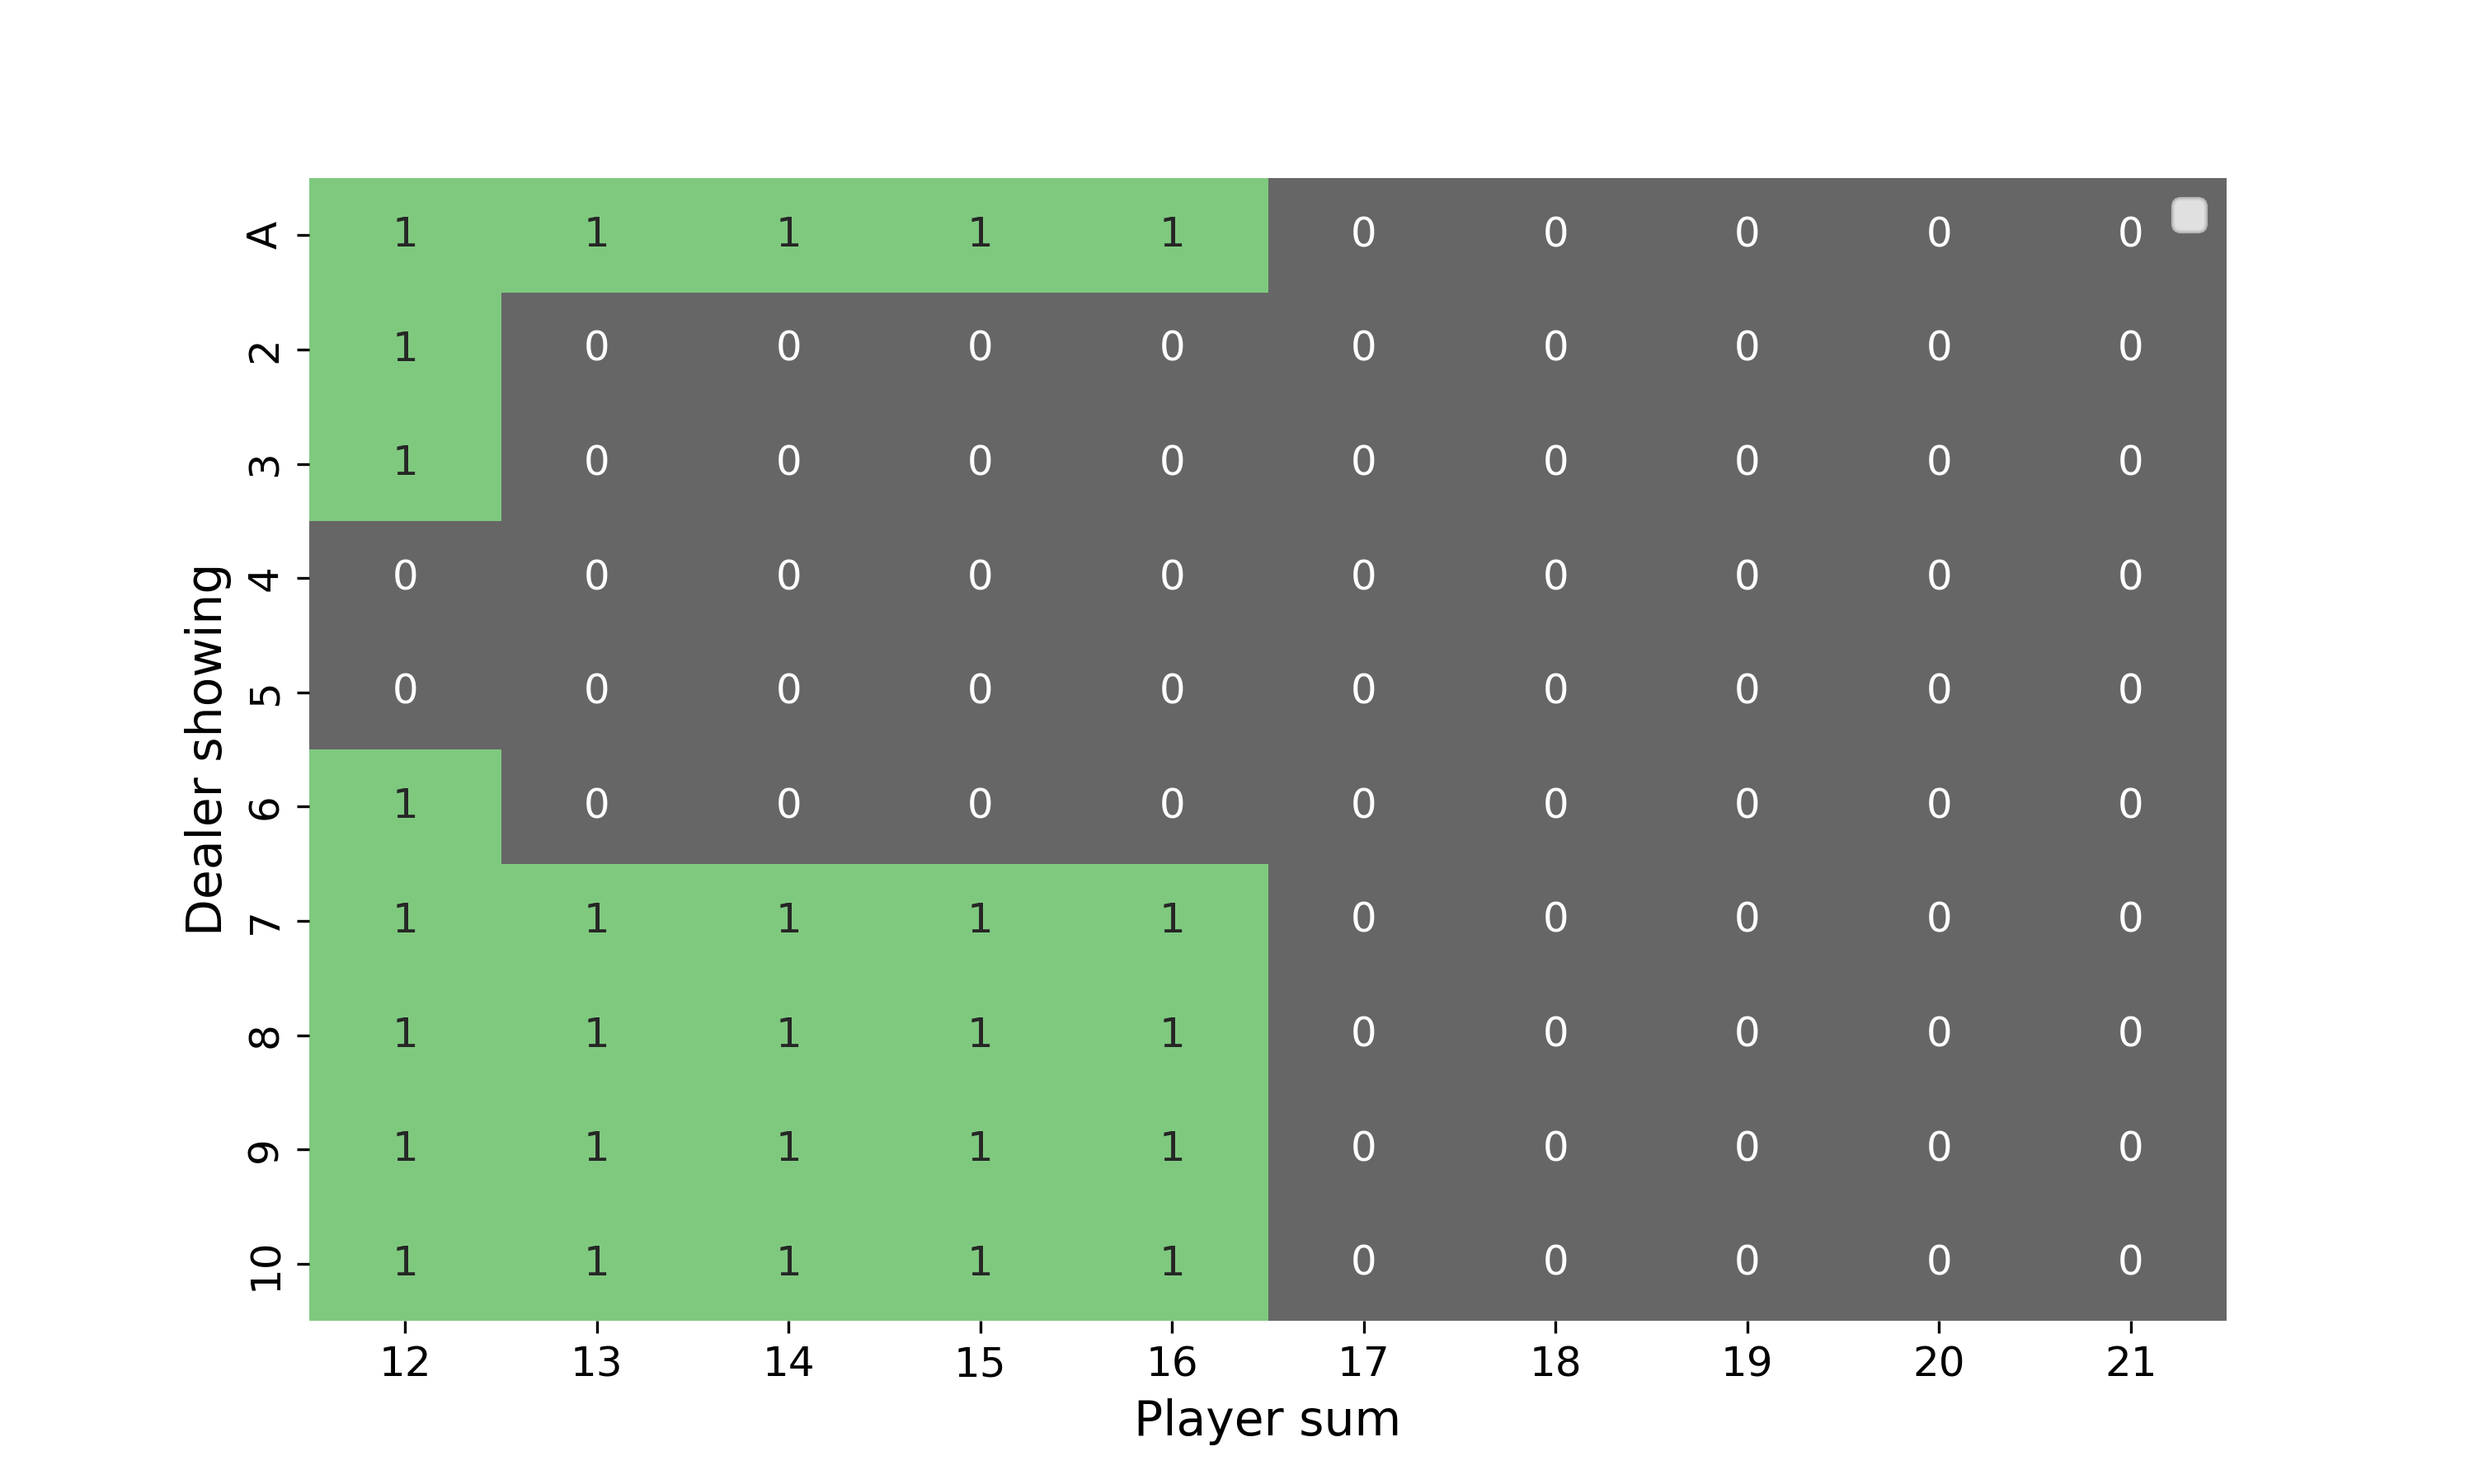
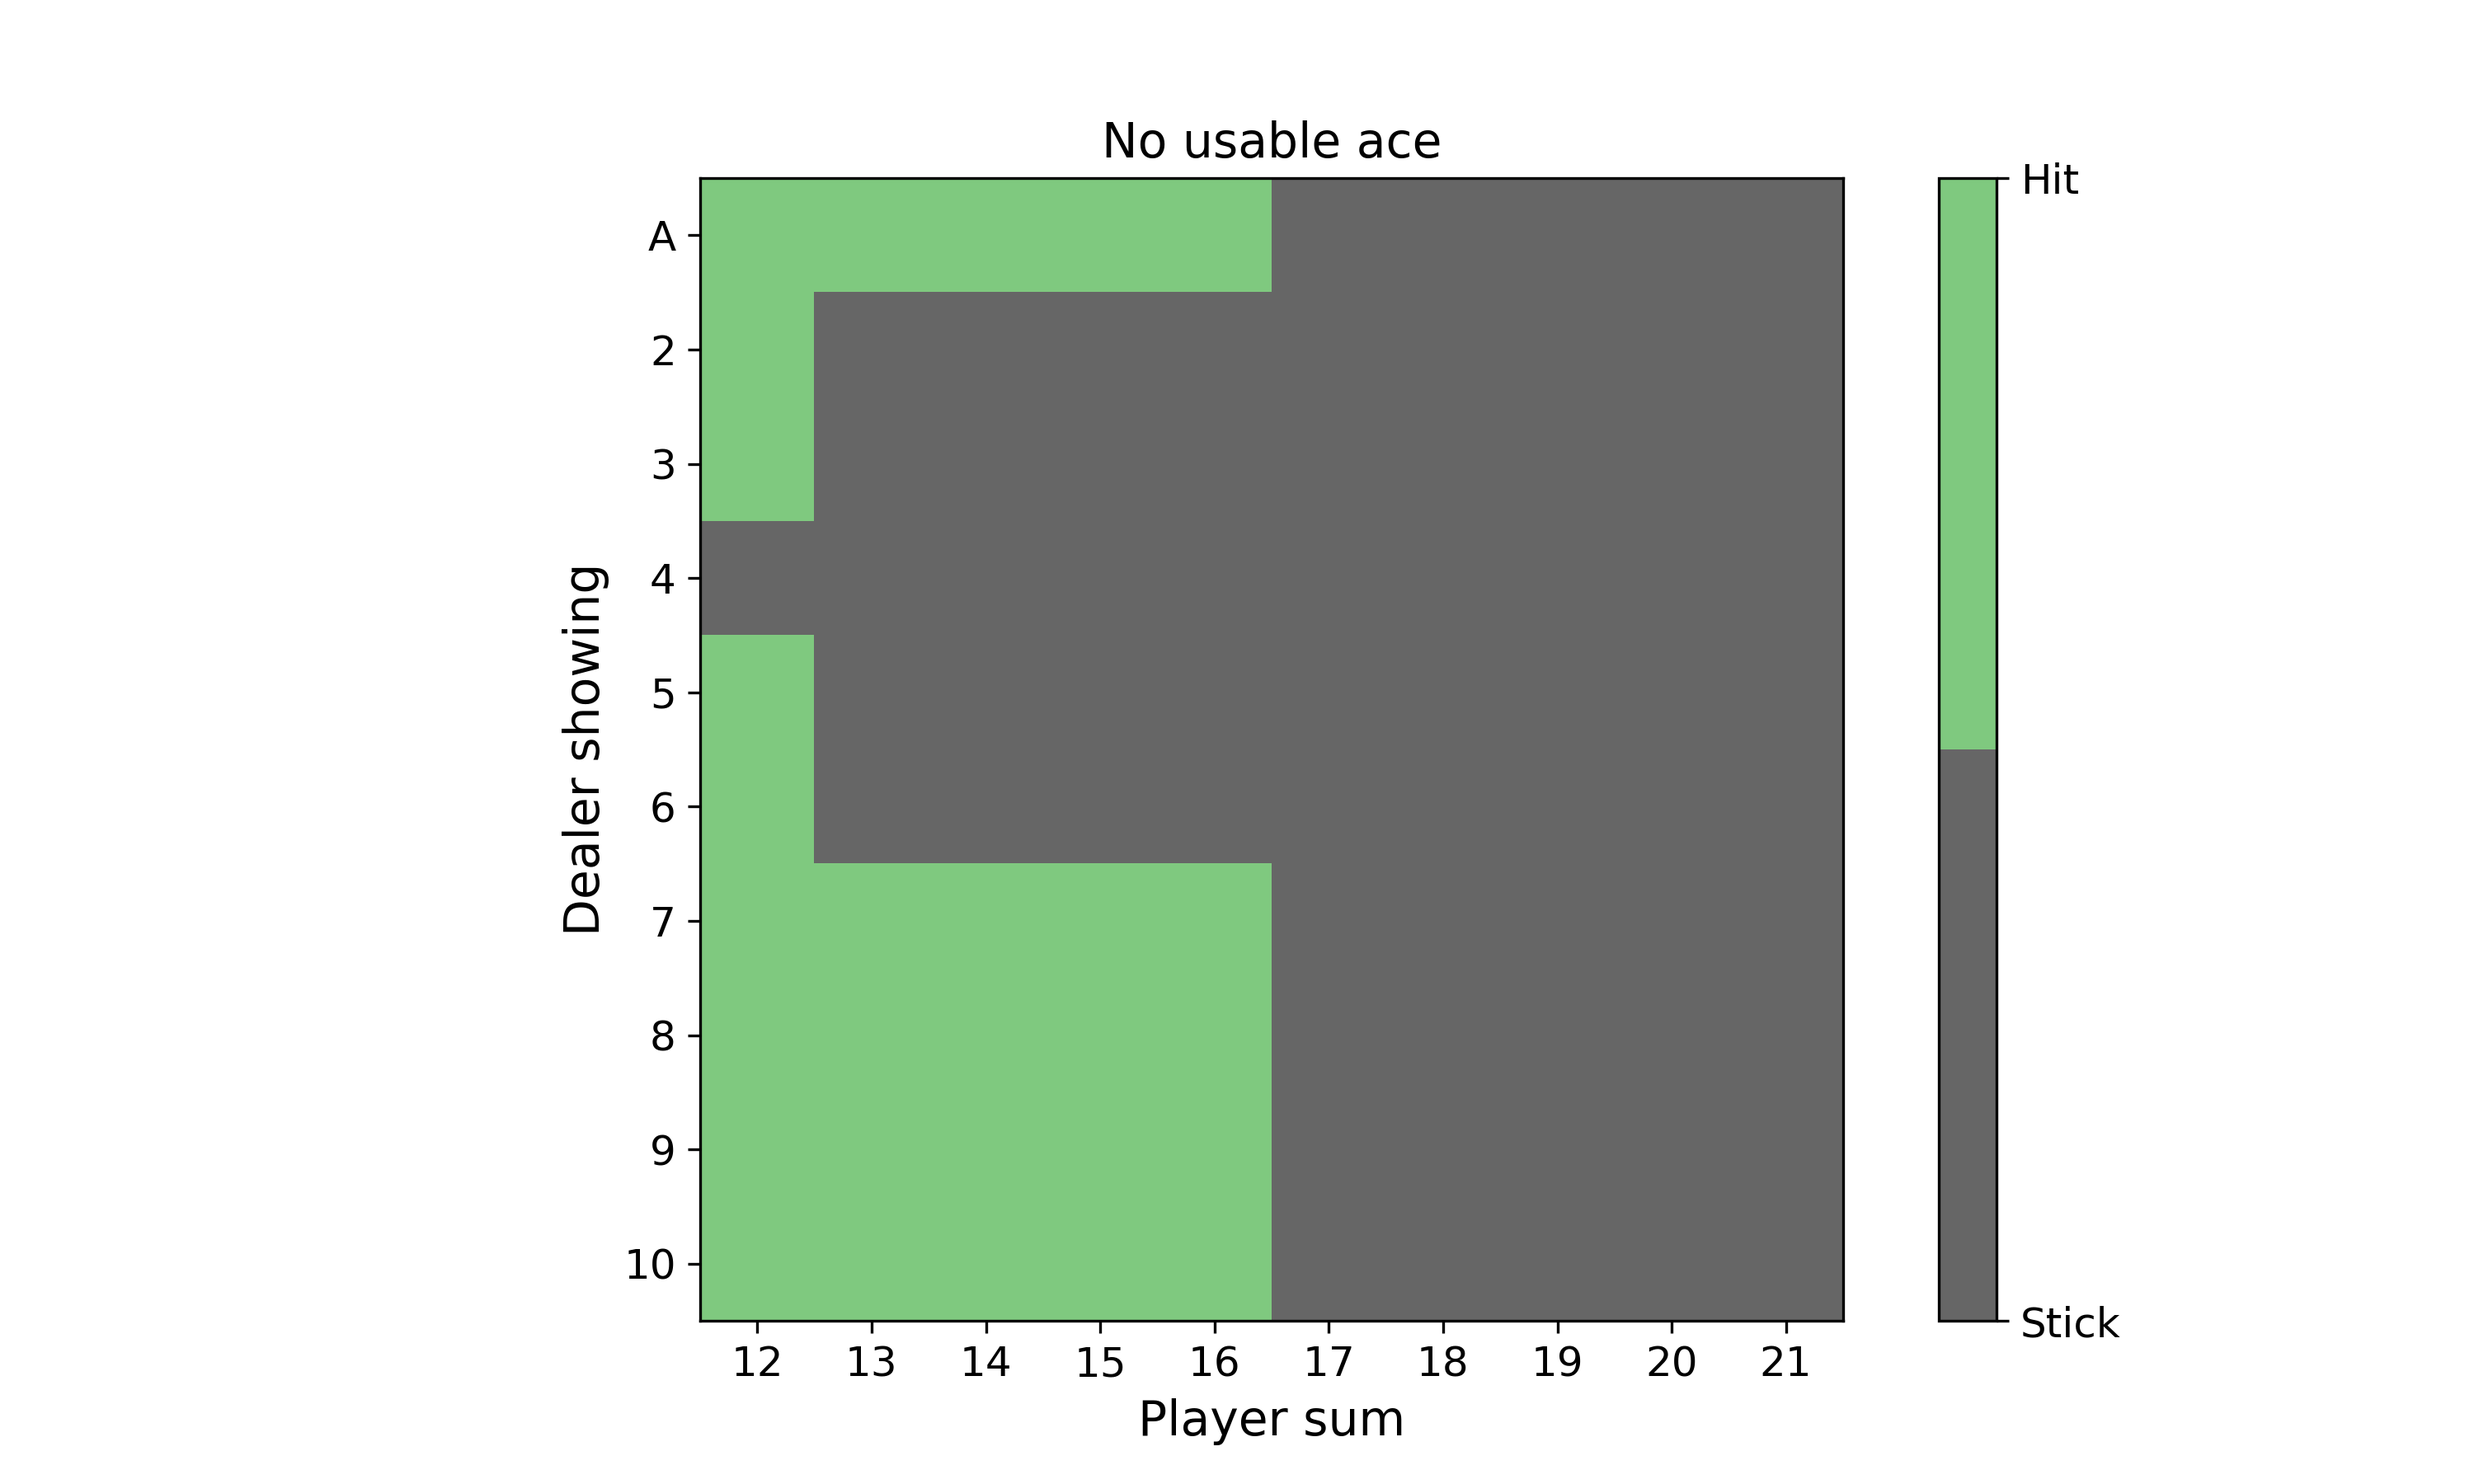
Changed policy graphing to a better looking version.

diff --git a/libs/utils/graphing.py b/libs/utils/graphing.py
@@ -50,6 +50,7 @@ def plot_results(
     if ylim: ax.set_ylim(ylim)
     ax.legend(loc='upper right')
     plt.savefig(file_path, dpi=300)
+    plt.close()
 
 def plot_3d(
         x: np.ndarray,
@@ -88,25 +89,34 @@ def plot_3d(
         ax.set_zlim(limits[2])
 
     plt.savefig(file_path, dpi=300)
+    plt.close()
 
 def plot_policy(
-        policy_grid: np.ndarray,
+        policy_grid: np.ndarray | list,
         x_label: str,
         y_label: str,
         x_ticks: list[str],
         y_ticks: list[str],
-        labels: list[str],
+        cbar_ticks: list[str],
+        cbar_labels: list[str],
+        title: str,
         file_path: str):
+
     fig, ax = plt.subplots(figsize=(10, 6))
 
-    ax = sns.heatmap(policy_grid, linewidth=0, annot=True, cmap='Accent_r', cbar=False)
+    cmap = plt.get_cmap('Accent_r', len(np.unique(policy_grid)))
+    plot = ax.imshow(policy_grid, cmap=cmap, interpolation='none')
     ax.set_xlabel(x_label)
     ax.set_ylabel(y_label)
-    ax.set_xticklabels(x_ticks)
-    ax.set_yticklabels(y_ticks)
-    ax.legend(loc='upper right', labels=labels)
+    ax.set_xticks(ticks=range(len(x_ticks)), labels=x_ticks)
+    ax.set_yticks(ticks=range(len(y_ticks)), labels=y_ticks)
+    ax.set_title(title)
+
+    cbar = fig.colorbar(plot)
+    cbar.set_ticks(cbar_ticks, labels=cbar_labels)
 
     plt.savefig(file_path, dpi=300)
+    plt.close()
 
 def graph_policy_trajectory(
         EnvClass: object,
@@ -135,3 +145,4 @@ def graph_policy_trajectory(
 
     sns.heatmap(grid, cmap=sns.color_palette("Blues", as_cmap=True), xticklabels=False, yticklabels=False, cbar=False, square=True)
     plt.savefig(file_path, dpi=300)
+    plt.close()

diff --git a/monte_carlo/mc_experiments.py b/monte_carlo/mc_experiments.py
@@ -85,16 +85,16 @@ def experiment_5_2():
 
     plot_policy(
         policy_grid_0,
-        'Player sum', 'Dealer showing', range(12, 22),
-        ['A'] + list(range(2,11)), ['Stick', 'Hit'],
-        './monte_carlo/results/5_2_policy_no_usable.png'
+        'Player sum', 'Dealer showing', list(range(12, 22)),
+        ['A'] + list(range(2,11)), [0, 1], ['Stick', 'Hit'],
+        'No usable ace', './monte_carlo/results/5_2_policy_no_usable.png'
     )
 
     plot_policy(
         policy_grid_1,
-        'Player sum', 'Dealer showing', range(12, 22),
-        ['A'] + list(range(2,11)), ['Stick', 'Hit'],
-        './monte_carlo/results/5_2_policy_usable.png'
+        'Player sum', 'Dealer showing', list(range(12, 22)),
+        ['A'] + list(range(2,11)), [0, 1], ['Stick', 'Hit'],
+        'Usable ace', './monte_carlo/results/5_2_policy_usable.png'
     )
 
 def experiment_5_12():
